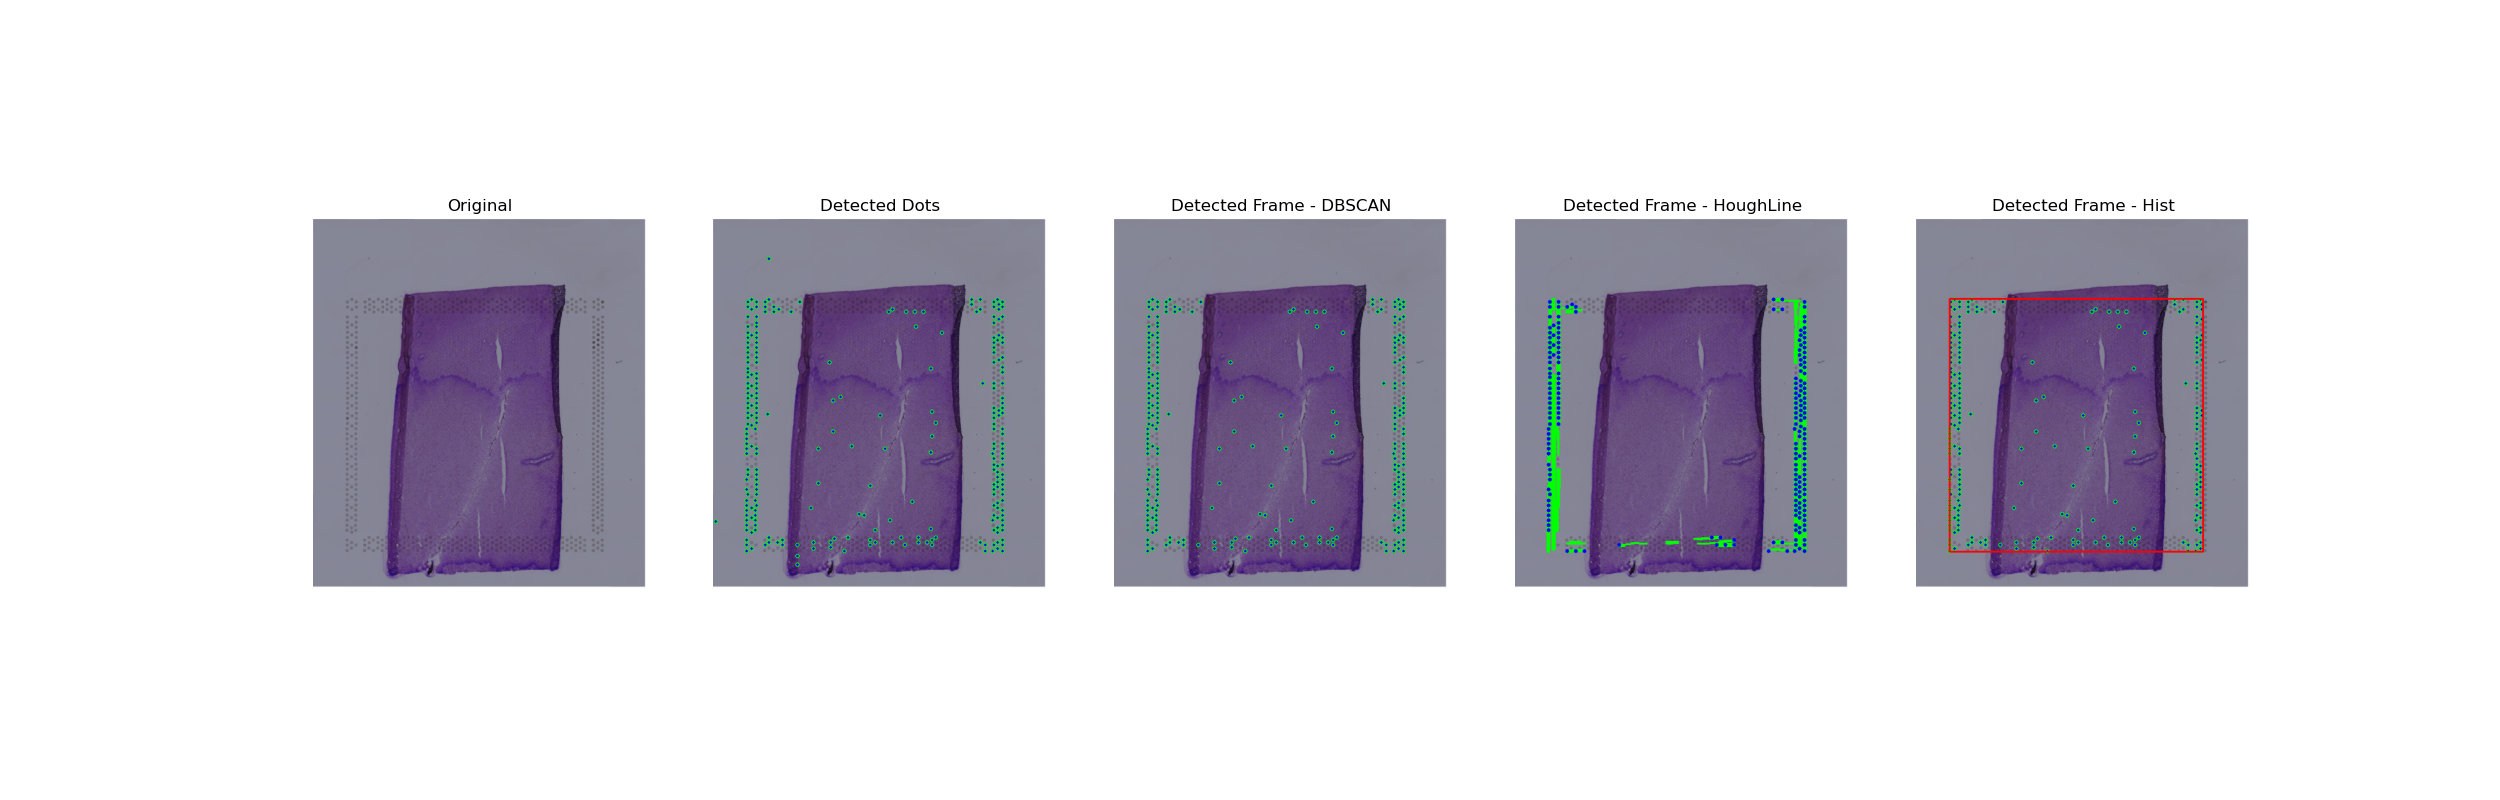
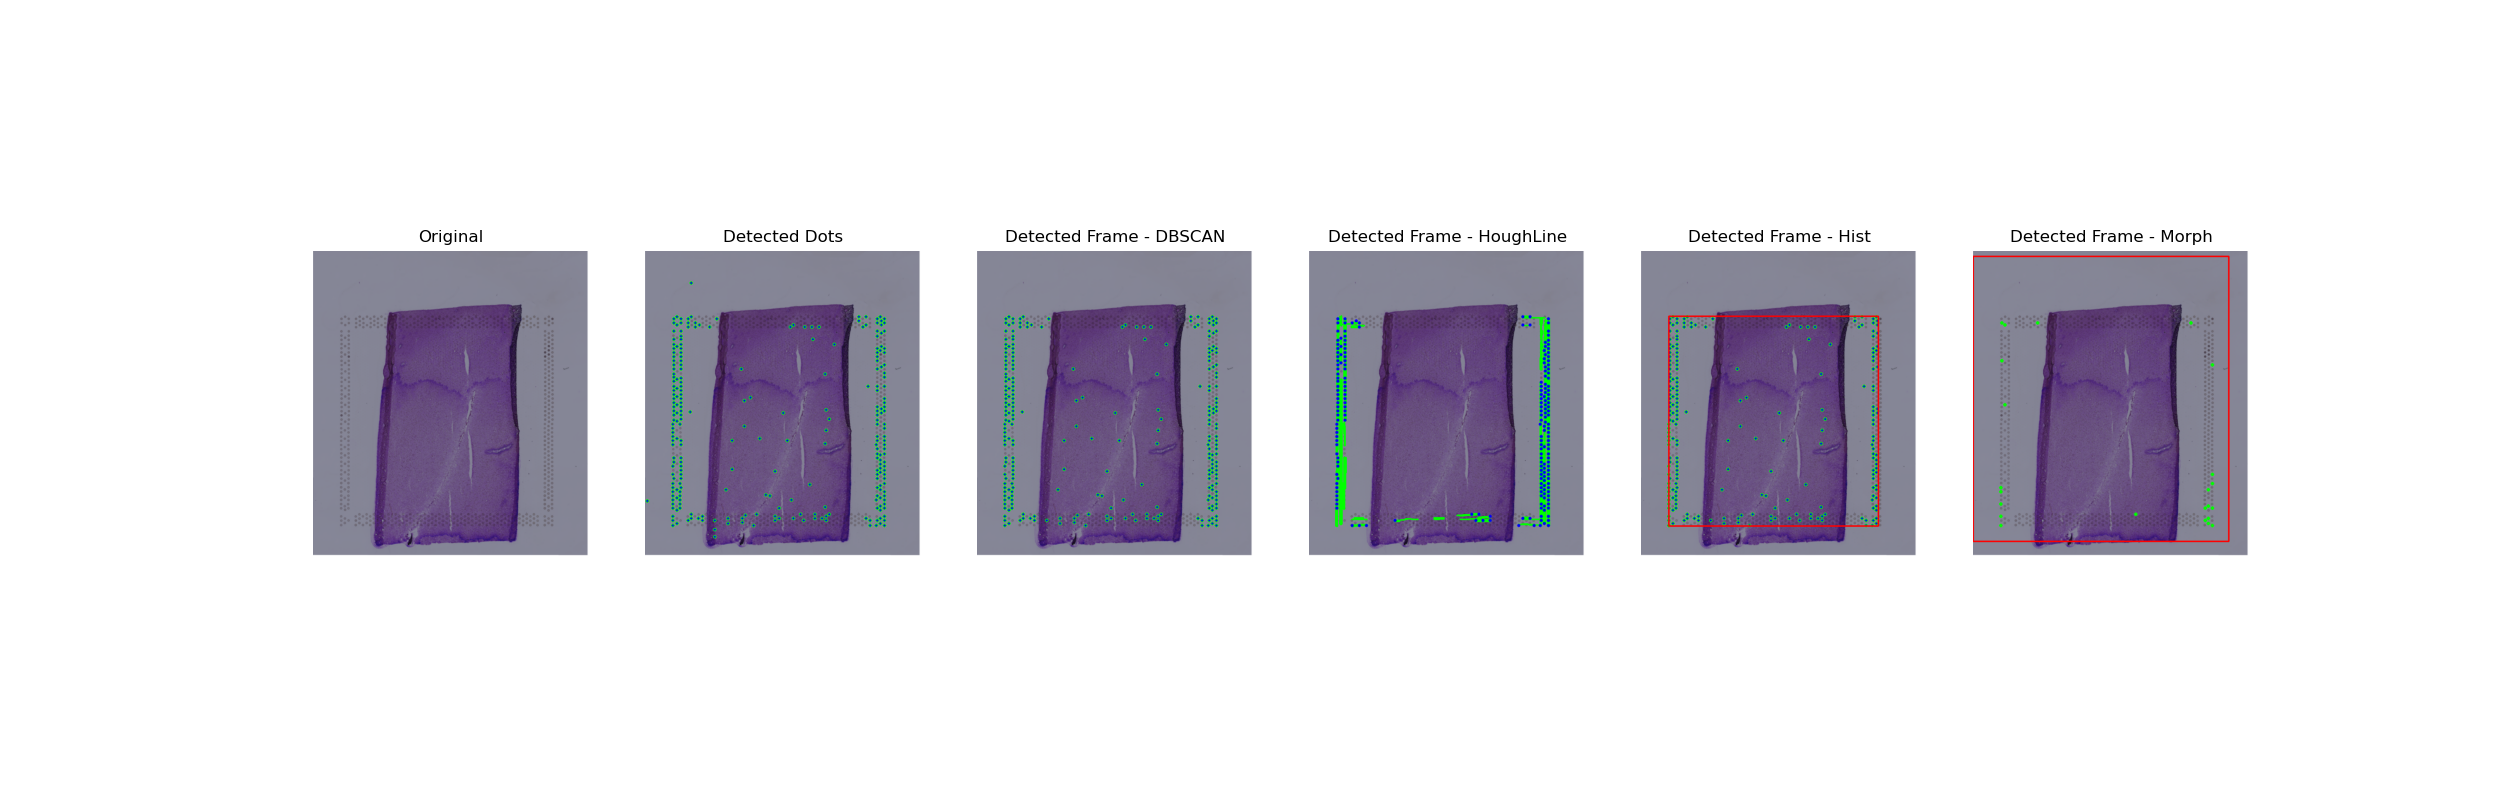
update

Changed region(s): [[0.1248, 0.25, 0.9048, 0.75]]

diff --git a/DetectFrame/LocateFrame.py b/DetectFrame/LocateFrame.py
@@ -1,0 +1,46 @@
+import cv2
+import numpy as np
+
+
+def locate_frame(circles, image_file=None):
+    if image_file is None:
+        print("Error: image_file or coordinates is None")
+        return None
+
+    image = cv2.imread(image_file)
+    height, width, _ = image.shape
+
+    x_coords = np.array([x for x, y, r in circles])
+    y_coords = np.array([y for x, y, r in circles])
+
+    # 确定直方图的边界阈值
+    step_size = 2
+    threshold = 5  # 每个直方图bin的最小点数
+
+    valid_x = []
+    for i in range(0, height, step_size):
+        count_x = len([x for x in x_coords if x >= i and x < i + step_size])
+        if count_x >= threshold:
+            valid_x.append(i)
+
+    valid_y = []
+    for i in range(0, width, step_size):
+        count_y = len([y for y in y_coords if y >= i and y < i + step_size])
+        if count_y >= threshold:
+            valid_y.append(i)
+
+    valid_circles = [p for p in circles if p[0] in valid_x or p[1] in valid_y] # 使用OR, 不使用AND
+
+    x_left = np.min(valid_circles, axis=0)[0]
+    x_right = np.max(valid_circles, axis=0)[0]
+    y_top = np.min(valid_circles, axis=0)[1]
+    y_bottom = np.max(valid_circles, axis=0)[1]
+
+
+    for x, y, r in valid_circles:
+        cv2.circle(image, (x, y), r, (0, 255, 0), 2)
+
+    cv2.rectangle(image, (x_left, y_top), (x_right, y_bottom), (0, 0, 255), 2)
+
+
+    return valid_circles, image

diff --git a/DetectFrame/FilterDots.py b/DetectFrame/FilterDots.py
@@ -115,7 +115,7 @@ def filter_frame_dots(circles, image_file=None, method="DBSCAN"):
                     filtered_circles.append((x, y, 3))
                     if image_file is not None:
                         cv2.circle(image, (x, y), 3, (0, 0, 255), -1)  # 红色点表示保留的点
-    else:
+    elif method == "Hist":
         # 提取坐标用于直方图分析
         x_coords = np.array([x for x, y, r in circles])
         y_coords = np.array([y for x, y, r in circles])
@@ -155,6 +155,9 @@ def filter_frame_dots(circles, image_file=None, method="DBSCAN"):
             for x, y, r in filtered_circles:
                 cv2.circle(image, (x, y), r, (0, 255, 0), 2)
                 cv2.circle(image, (x, y), 2, (0, 0, 255), -1)
+
+    else:
+        filtered_circles = circles
 
     if image_file is not None:
         return filtered_circles, image

diff --git a/Crop/Crop.py b/Crop/Crop.py
@@ -1,19 +1,3 @@
 import cv2
 import numpy as np
 
-from DetectFrame.FilterDots_DBSCAN import detect_frame_dbscan
-
-
-
-def crop(image_file):
-    circles_dbsacn, output_dbscan = detect_frame_dbscan(image_file)
-
-    x_coords = np.array([x for x, y, r in circles_dbsacn])
-    y_coords = np.array([y for x, y, r in circles_dbsacn])
-
-    x_left = np.min(x_coords)
-    x_right = np.max(x_coords)
-    y_top = np.min(y_coords)
-    y_bottom = np.max(y_coords)
-
-    return x_left, x_right, y_top, y_bottom
